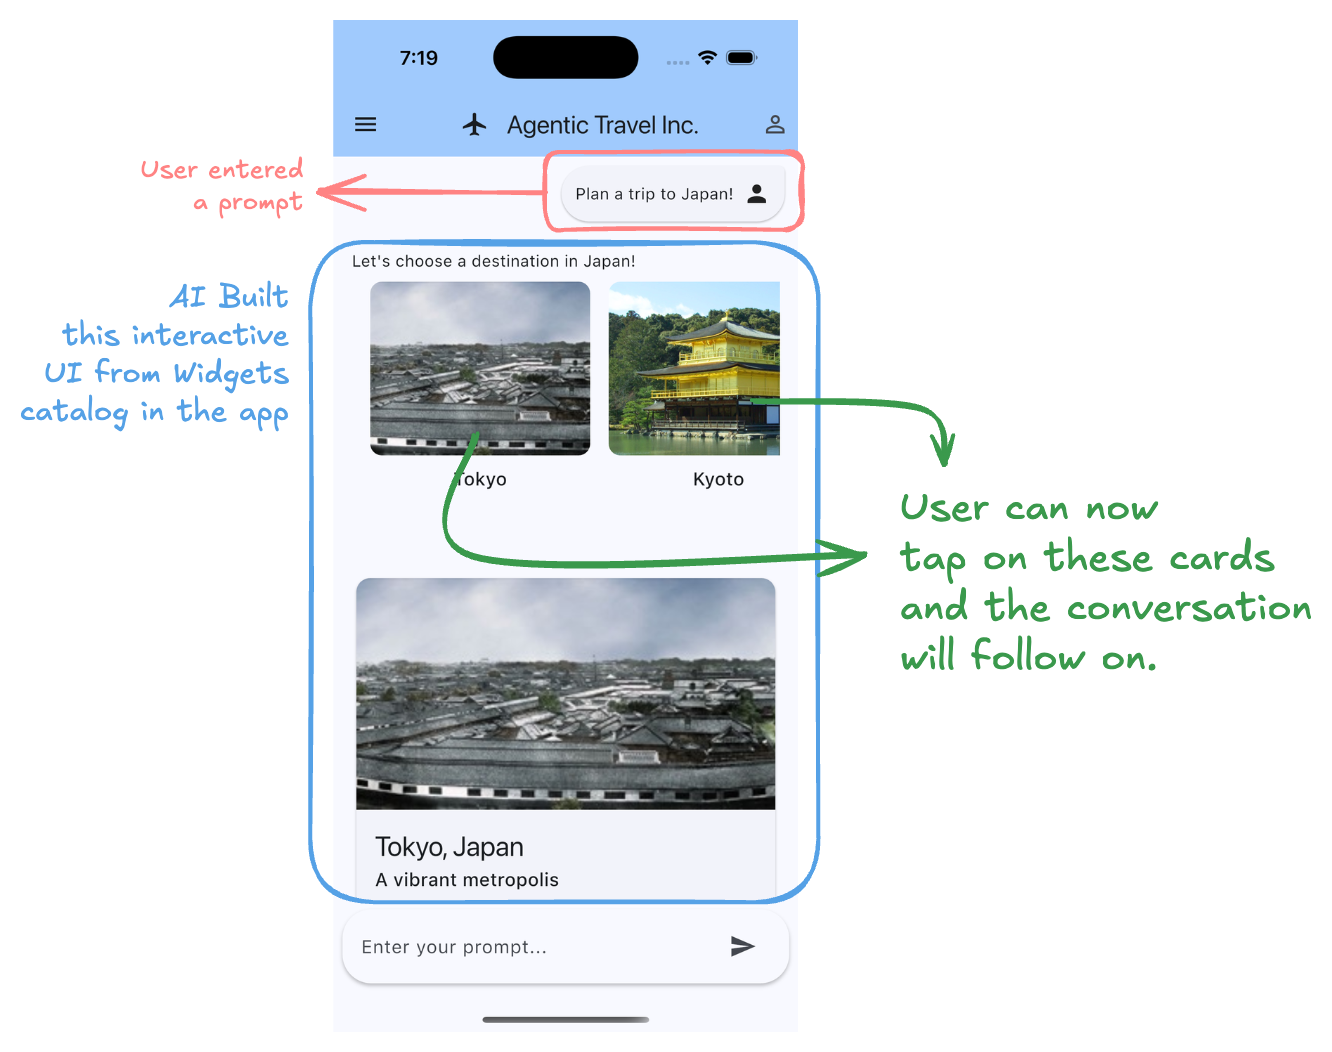
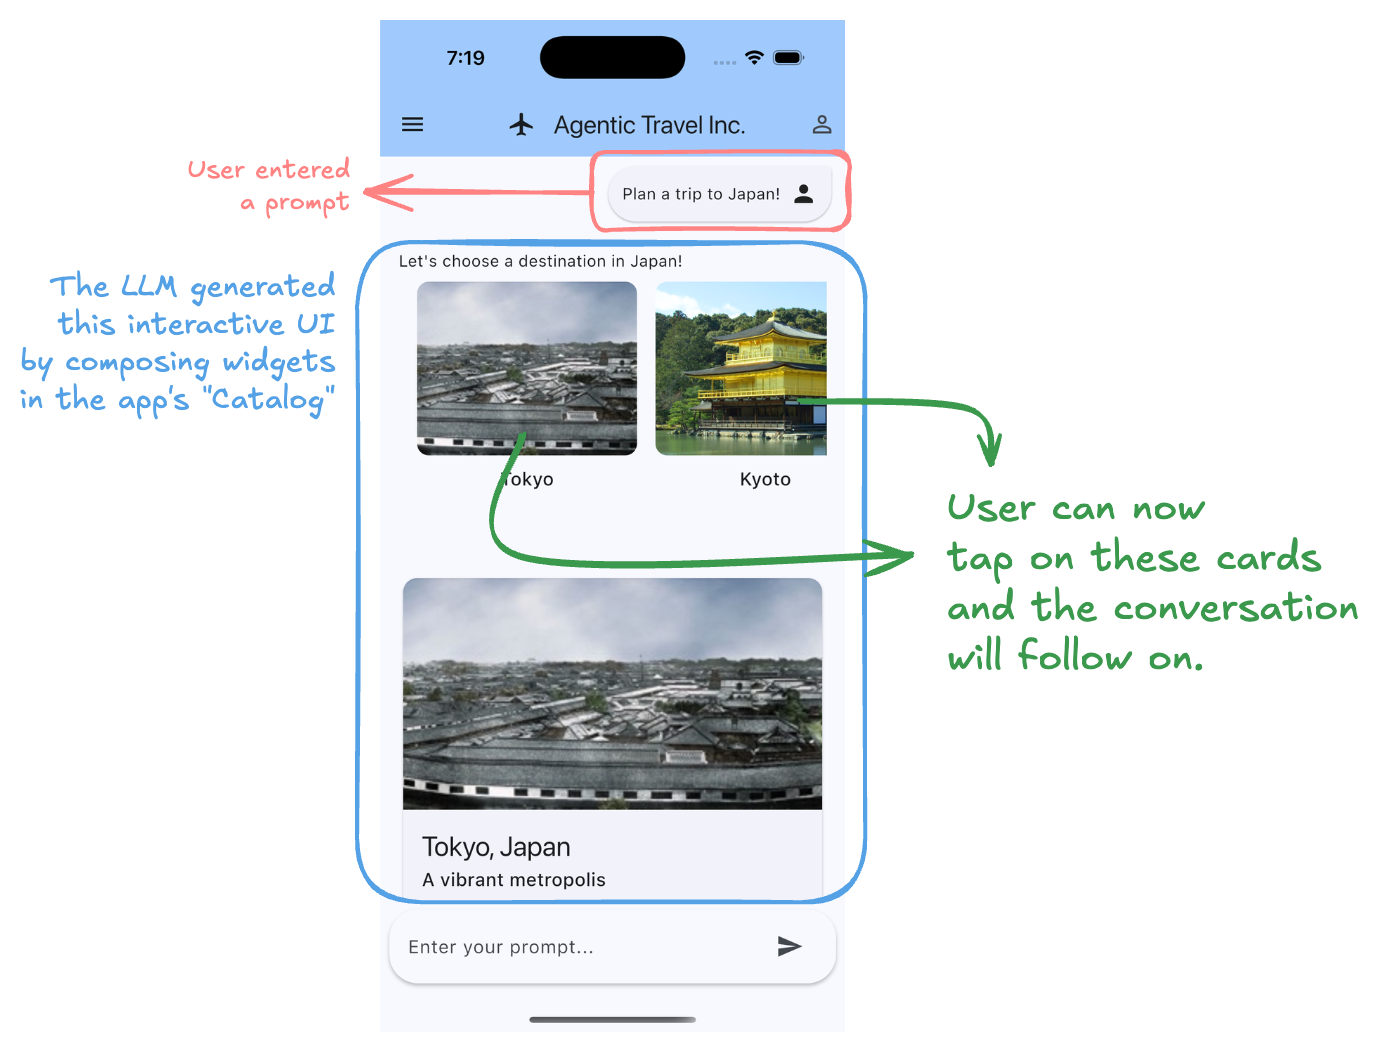
docs: feedback resolved in graphics

diff --git a/README.md b/README.md
@@ -82,7 +82,6 @@ Widget build(BuildContext context) {
 ```
 
 ## Look & Feel
-Here's how it works in practice, but please be advised its labelled as "Highly Experimental".
 
 ### Interactive [Travel App Example](examples/travel_app/)
 
@@ -91,11 +90,9 @@ Here's how it works in practice, but please be advised its labelled as "Highly E
 *The GIF above shows how GenUI enables dynamic, interactive UI generation - instead of text descriptions or being a traditional code generator integrated in AI coding agent.*
 
 ### Core Difference
-This UI is not being generated in form of code, rather its generated in runtime based on widget catalog provided by the developers in their project (application catalog) plus combining the genui catalog (standard catalog).
+This UI is not generated in the form of code; rather, it's generated at runtime based on a widget catalog from the developers' project.
 
 <img src="misc/travel_app_genui_example.png" alt="GenUI Features Breakdown" height="600">
-
-*This screenshot highlights the core implementation of traditional LLM Based UI vs GenUI Based UI.*
 
 
 ## Implementation goals
